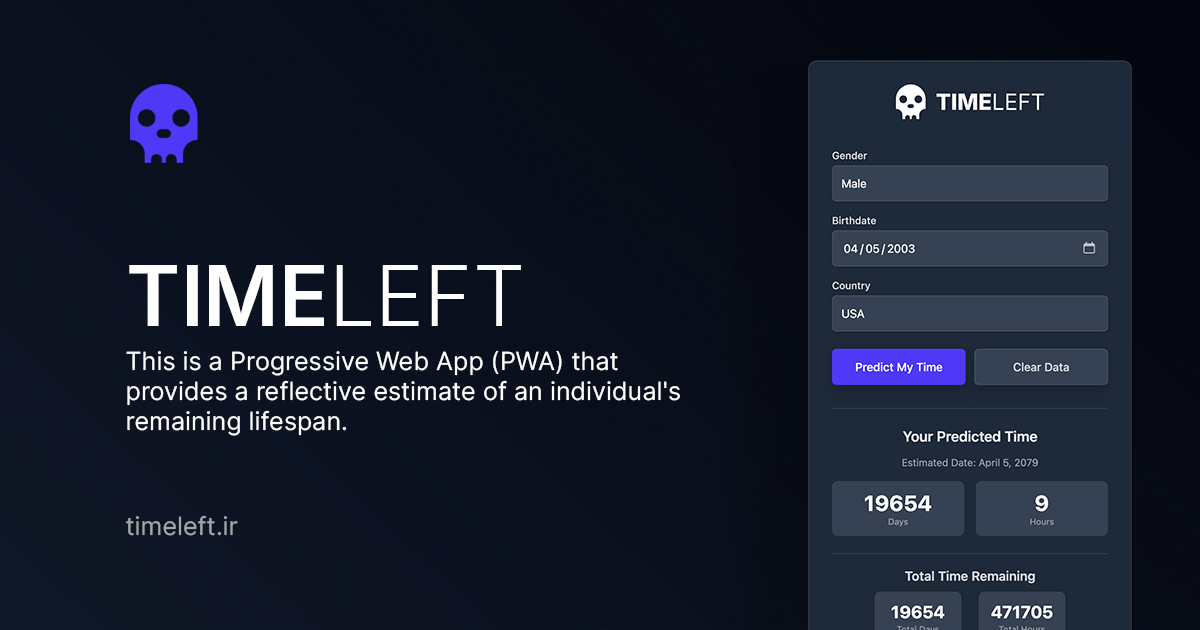
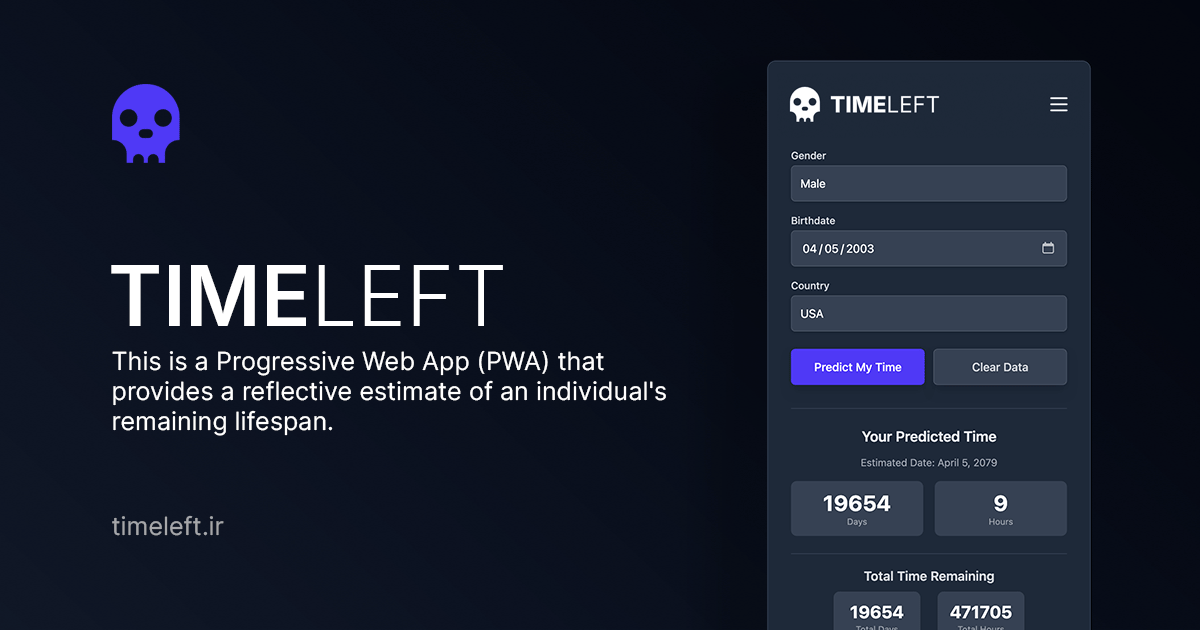
Fixing header and meta image

diff --git a/src/components/header.js b/src/components/header.js
@@ -10,9 +10,9 @@ const Header = () => {
     return (
         <header className="flex items-center justify-between gap-10 bg-gray-800 pb-9">
             {/* Logo */}
-            <div >
+            <Link to="/" >
                 <img src={Logo} alt="Time Left Logo" className="mx-auto h-12" />
-            </div>
+            </Link>
 
             {/* Menu Icon */}
             <button
@@ -25,8 +25,8 @@ const Header = () => {
 
             {/* Slide-in Menu */}
             <div
-                className={`absolute top-0 right-0 h-full w-full bg-gray-800/70 backdrop-blur-xl transform transition-transform duration-300 z-50 ${
-                    menuOpen ? "translate-x-0" : "translate-x-full"
+                className={`absolute top-0 h-full w-full bg-gray-800/70 backdrop-blur-xl duration-300 z-50 ${
+                    menuOpen ? "left-0" : "left-full"
                 }`}
             >
                 <button
